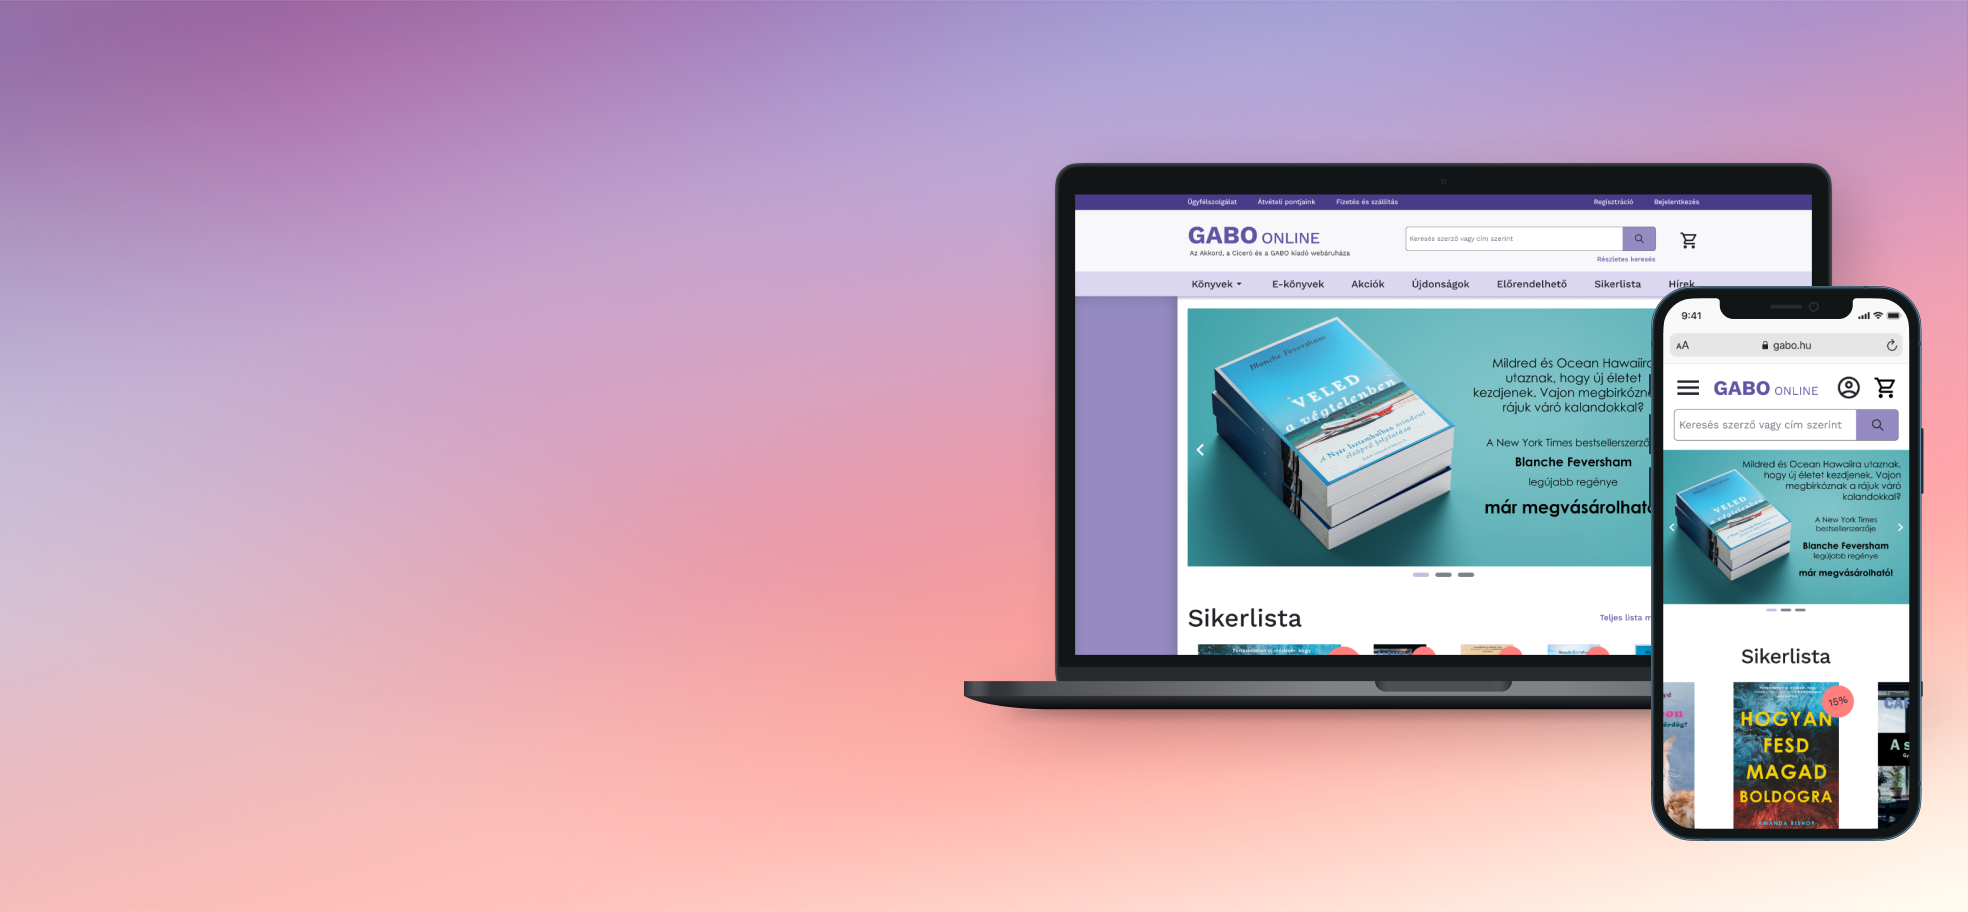
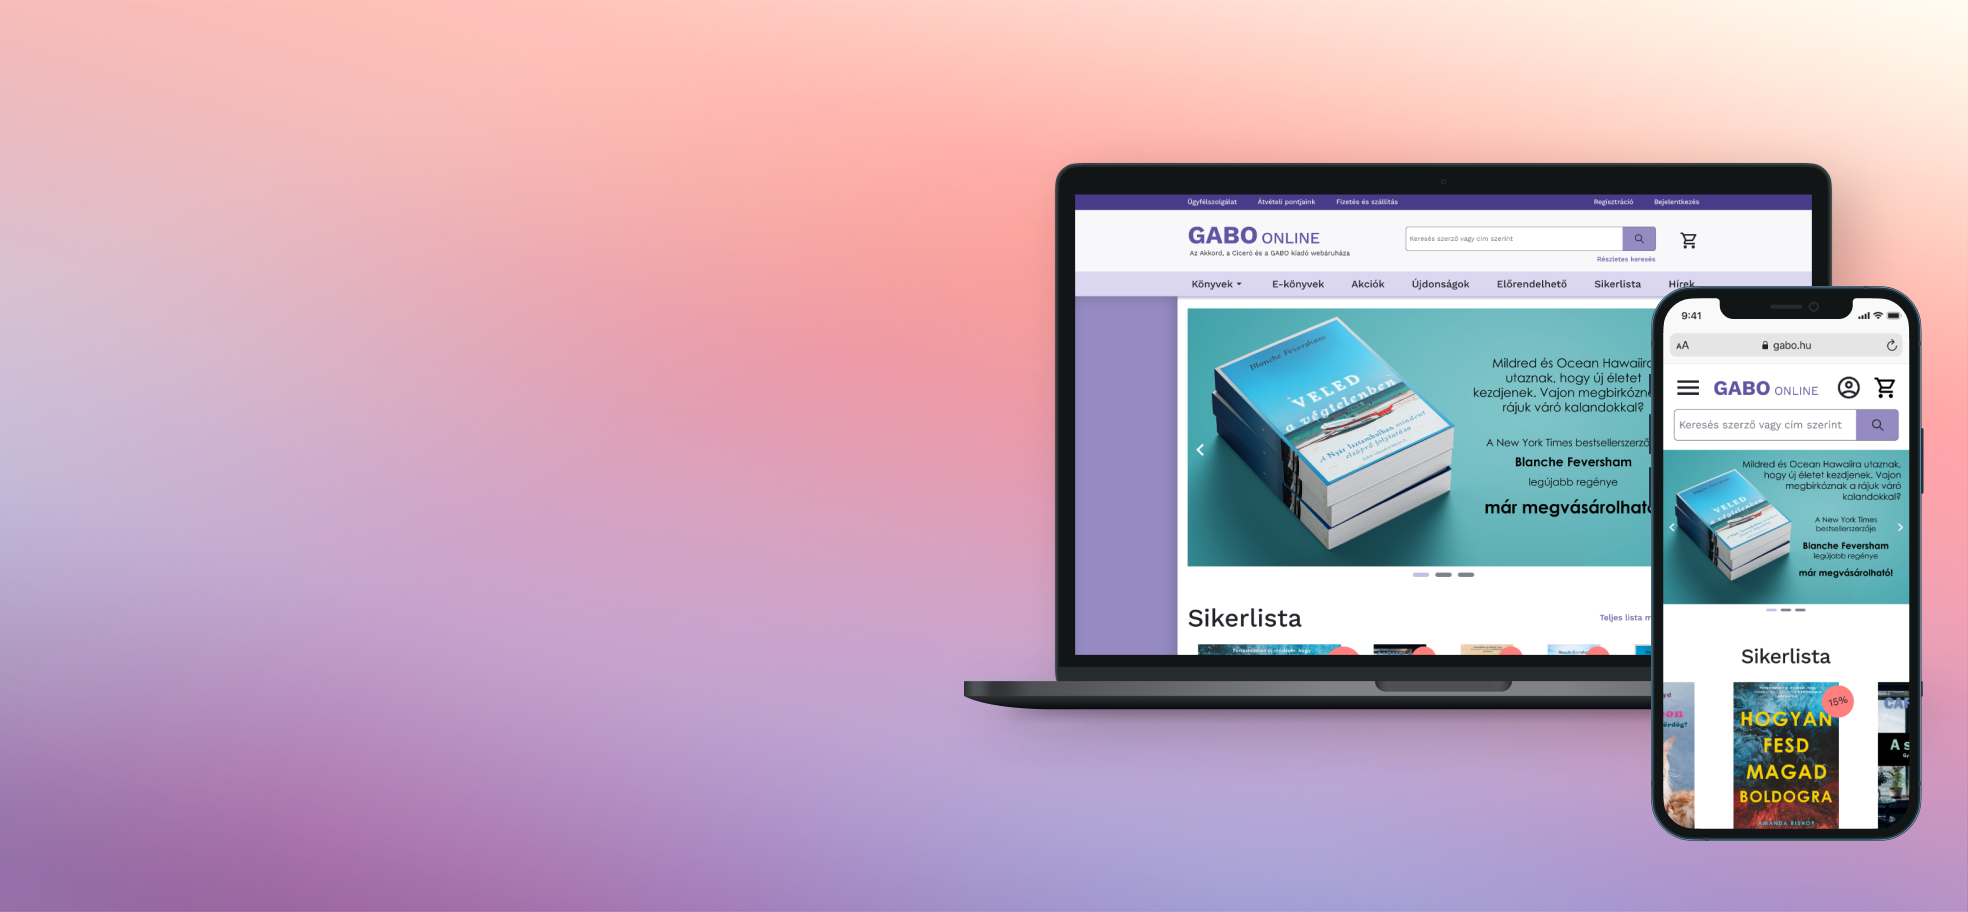
fix cards and images for gabo project

diff --git a/src/Index.vue b/src/Index.vue
@@ -100,13 +100,12 @@
         "
       >
         <p class="uppercase sm:paragraph-regular paragraph-regular-small desktop:mb-28 md:mb-12 sm:mb-14 mb-4">Concept / UX / Website Redesign</p>
-        <h2 class="hidden sm:inline sm:display-medium-smaller h1-medium text-gray-900">GABO Online</h2>
-        <h2 class="sm:hidden sm:display-medium-smaller h1-medium text-gray-900">GABO <br/> Online</h2>
+        <h2 class="px-2 sm:p-0 sm:inline sm:display-medium-smaller h1-medium text-gray-900">GABO Online</h2>
         <p class="md:subheading-italic subheading-italic-small text-gray-900 desktop:mb-9 sm:mb-7 mb-5">
           Redesigning a small Hungarian publisher's website and webshop.
         </p>
         <router-link to="/gabo">
-        <button class="btn">Coming Soon</button></router-link>
+        <button class="btn">View Case Study</button></router-link>
       </div>
     </div>
   </div>

diff --git a/src/components/GaboHeader.vue b/src/components/GaboHeader.vue
@@ -7,7 +7,7 @@
         <img class="w-full" src="/src/assets/study-header-gabo-desktop@2x.png" alt="The header image of the GABO Online redesign project">
       </picture>
 
-    <div class="order-1 sm:order-none sm:absolute desktop:bottom-16 desktop:left-32 sm:bottom-6 sm:left-4 md:left-4 desktop:w-full md:w-3/5 sm:w-3/6 md:pr-0 px-4 pt-6 sm:text-left bg-gabo sm:bg-transparent">
+    <div class="order-1 sm:order-none sm:absolute desktop:bottom-16 desktop:left-32 sm:bottom-6 sm:left-4 md:left-4 desktop:w-full md:w-3/4 sm:w-3/4 md:pr-0 px-4 pt-6 sm:text-left bg-gabo sm:bg-transparent">
       <p class="display-medium-smaller md:display-medium text-gray-900">GABO Online</p>
       <p class="subheading-italic text-gray-900">
         Redesigning a small Hungarian publisher's website and webshop.

diff --git a/src/components/GaboDeliver.vue b/src/components/GaboDeliver.vue
@@ -98,7 +98,7 @@
     <div
       class="
         desktop:col-start-4 desktop:col-end-10
-        col-start-3 col-end-11
+        sm:col-start-3 sm:col-end-11
         col-span-full
         row-span-1
         self-center
@@ -302,7 +302,7 @@
 
     <div
       class="
-        col-start-3 col-end-11
+        sm:col-start-3 sm:col-end-11
         desktop:col-start-4 desktop:col-end-10
         col-span-full
         row-span-1

diff --git a/src/components/GaboResearch.vue b/src/components/GaboResearch.vue
@@ -254,7 +254,7 @@
         </p>
       </div>
     </div>
-    <div class="desktop:col-start-7 desktop:col-end-13 col-start-3 col-end-11 col-span-full row-span-1 self-center">
+    <div class="desktop:col-start-7 desktop:col-end-13 sm:col-start-3 sm:col-end-11 col-span-full row-span-1 self-center">
       <div
         class="
           flex

diff --git a/src/components/GaboBackground.vue b/src/components/GaboBackground.vue
@@ -1,6 +1,6 @@
 <template>
   <div class="study-grid bg-gray-300 h-40">
-    <h2 class="col-span-full self-center h2-bold text-gray-900">
+    <h2 class="col-span-full px-4 md:px-0 self-center h2-bold text-gray-900">
       The Background
     </h2>
   </div>

diff --git a/tailwind.config.js b/tailwind.config.js
@@ -117,7 +117,7 @@ module.exports = {
       backgroundColor: theme => ({
         ...theme('colors'),
         'rulebook': '#489fb5',
-        'gabo': '#ff8483',
+        'gabo': '#ffeddf',
       }),
 
       lineHeight: {
